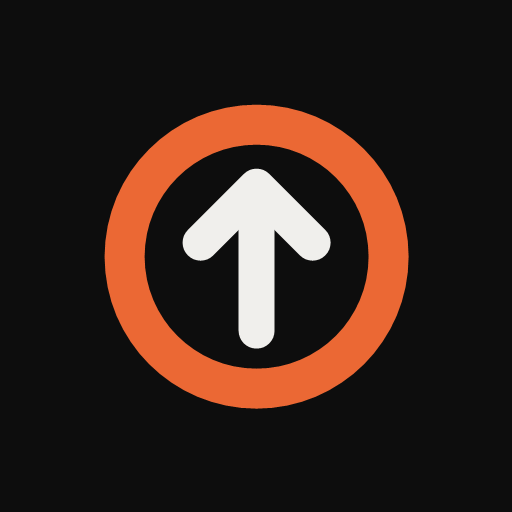
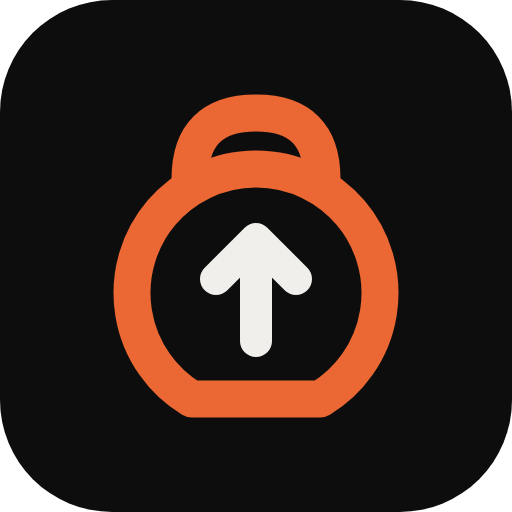
Ícone novo: kettlebell em contorno com seta para cima (PNG, maskable e iPhone)

diff --git a/sw.js b/sw.js
@@ -1,6 +1,6 @@
 // Service worker: deixa o Overload funcionando sem internet.
 // Ao publicar uma versão nova, troque o número abaixo para atualizar o cache dos aparelhos.
-const VERSION = 'v120';
+const VERSION = 'v121';
 
 const CORE = [
   './', 'index.html', 'manifest.webmanifest', 'css/app.css',
@@ -9,7 +9,7 @@ const CORE = [
   'js/views/home.js', 'js/views/workout.js', 'js/views/goals.js', 'js/views/progress.js',
   'js/views/library.js', 'js/views/settings.js', 'js/views/help.js', 'js/views/importtext.js', 'js/views/builder.js', 'js/views/coach.js',
   'sobre.html', 'privacidade.html',
-  'icons/icon.svg', 'icons/icon-192.png', 'icons/icon-512.png',
+  'icons/icon.svg', 'icons/icon-192.png', 'icons/icon-512.png', 'icons/icon-maskable-512.png', 'icons/apple-touch-icon.png',
 ];
 
 self.addEventListener('install', ev => {

diff --git a/index.html b/index.html
@@ -9,7 +9,7 @@
   <meta name="color-scheme" content="dark light">
   <link rel="manifest" href="manifest.webmanifest">
   <link rel="icon" href="icons/icon.svg" type="image/svg+xml">
-  <link rel="apple-touch-icon" href="icons/icon-192.png">
+  <link rel="apple-touch-icon" href="icons/apple-touch-icon.png">
   <meta name="apple-mobile-web-app-capable" content="yes">
   <meta name="apple-mobile-web-app-title" content="Overload">
   <meta name="apple-mobile-web-app-status-bar-style" content="black-translucent">
